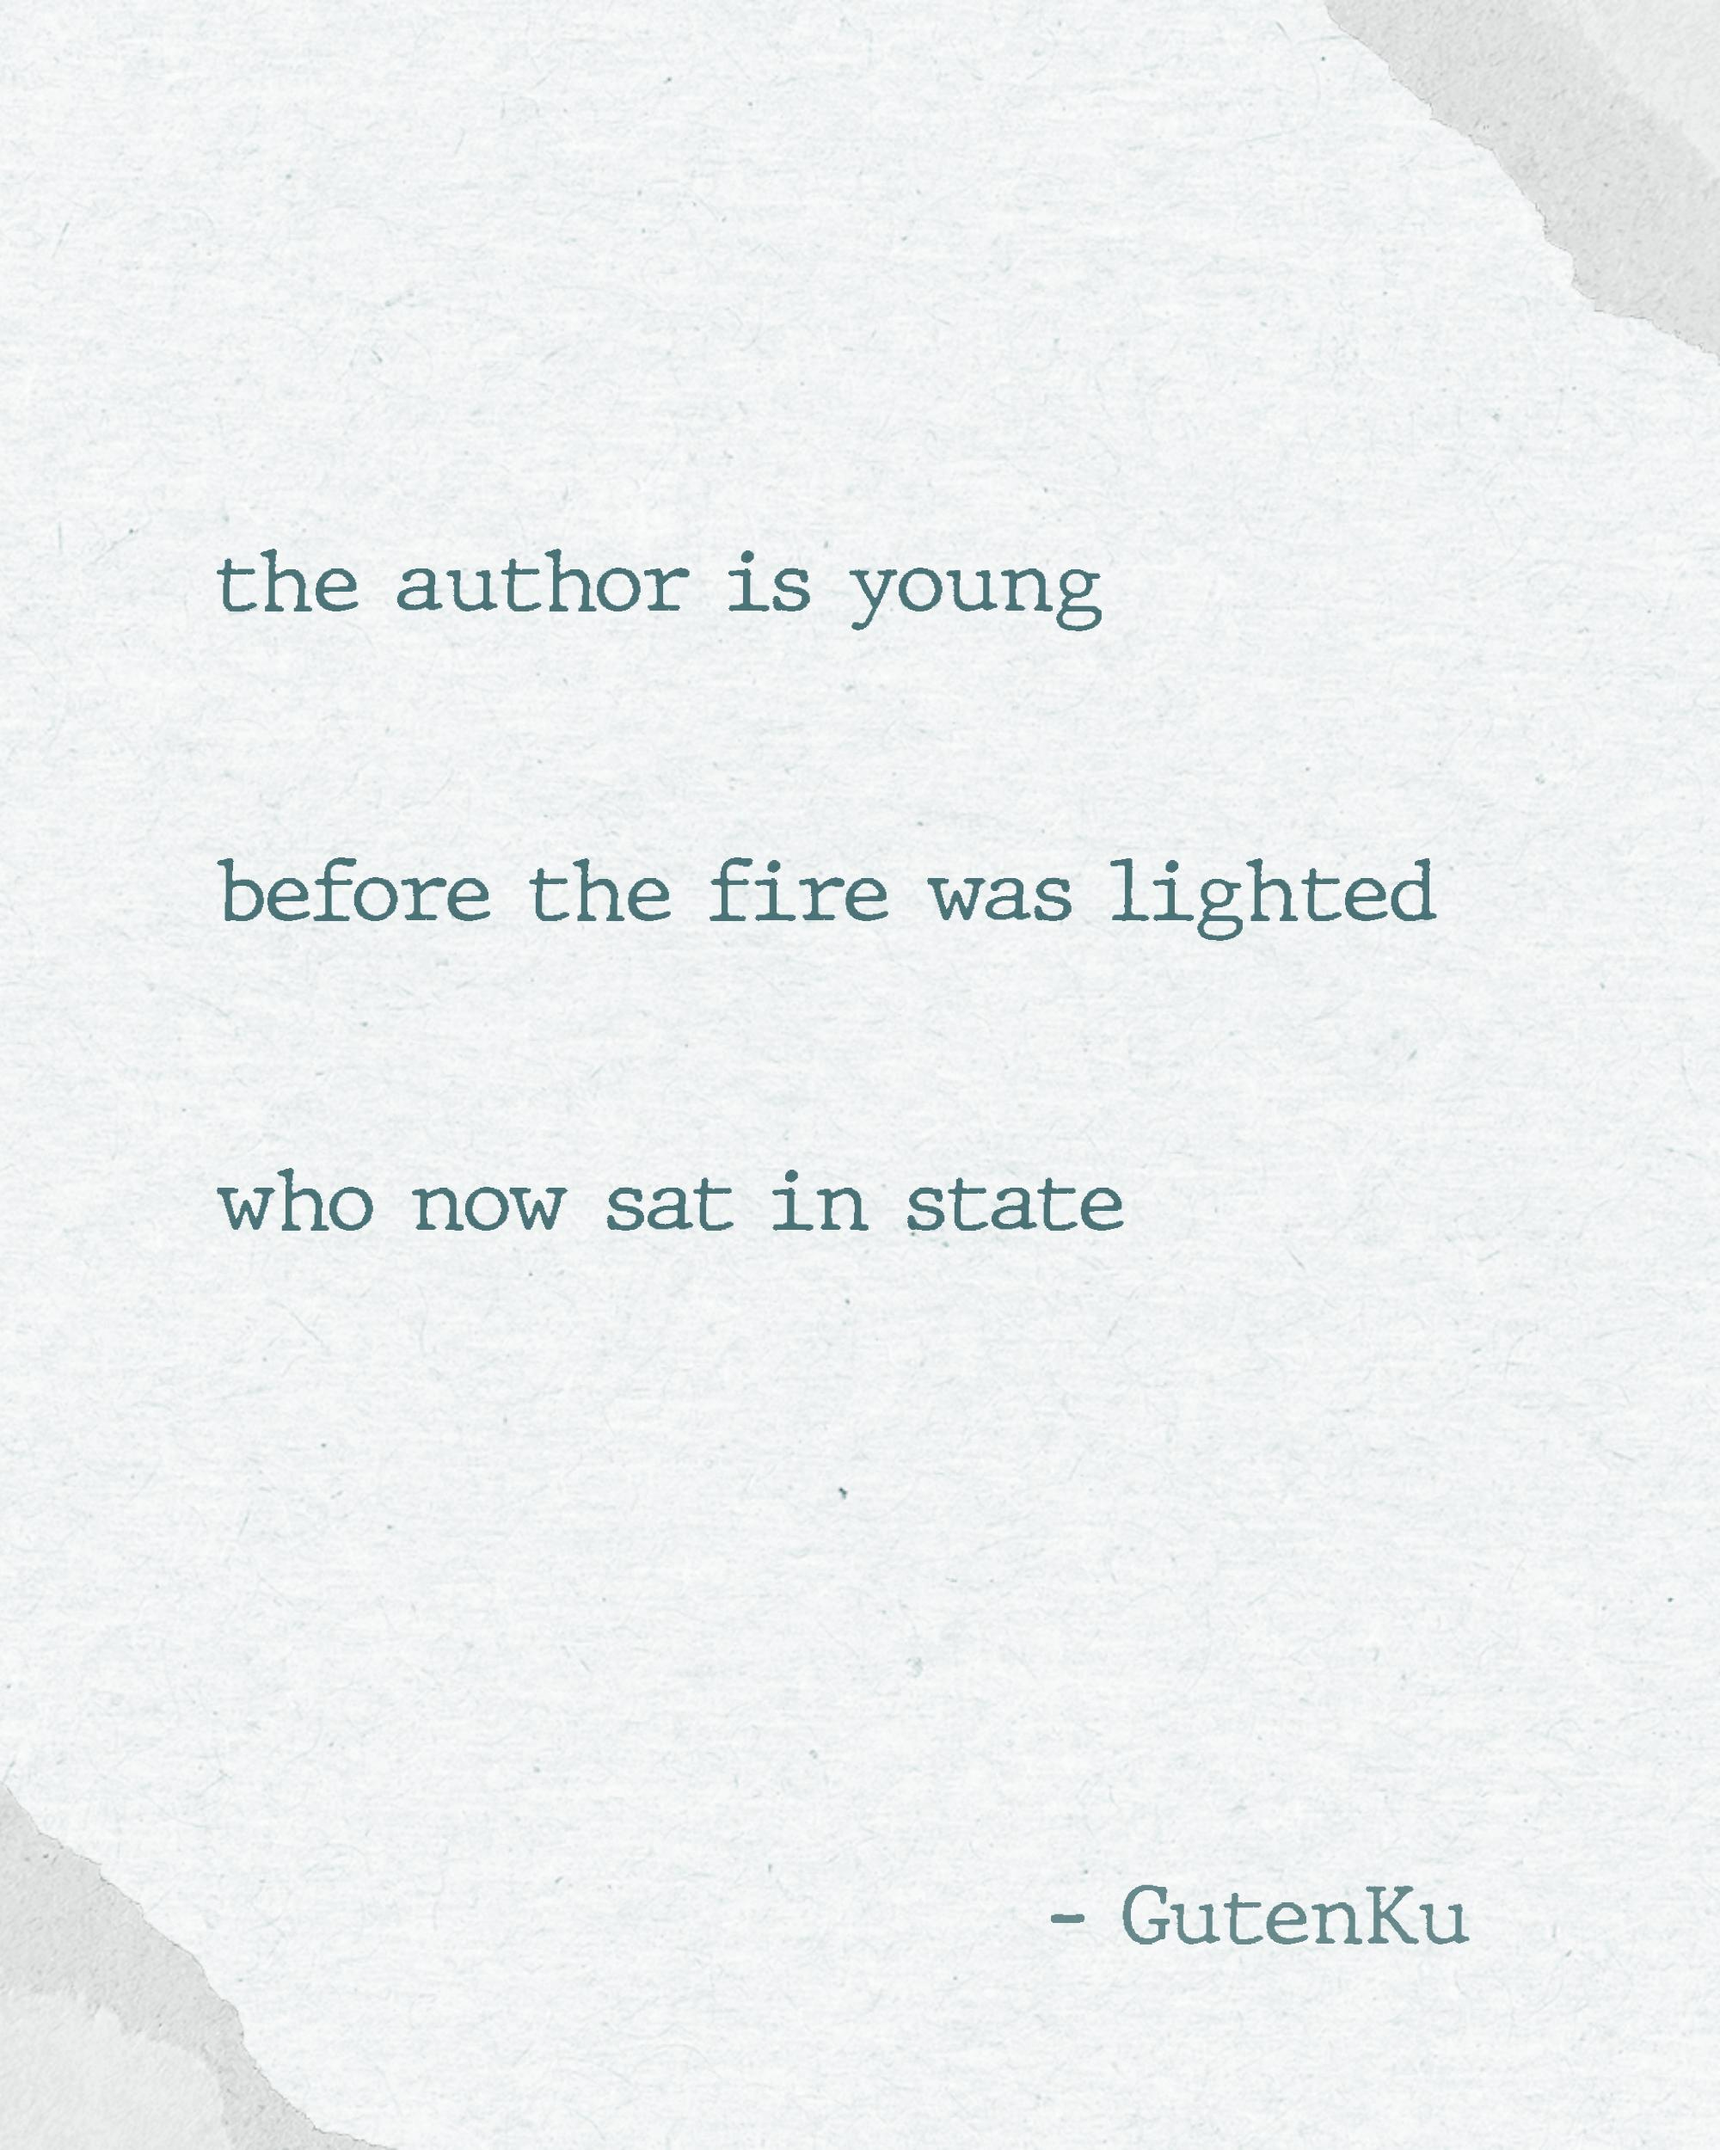
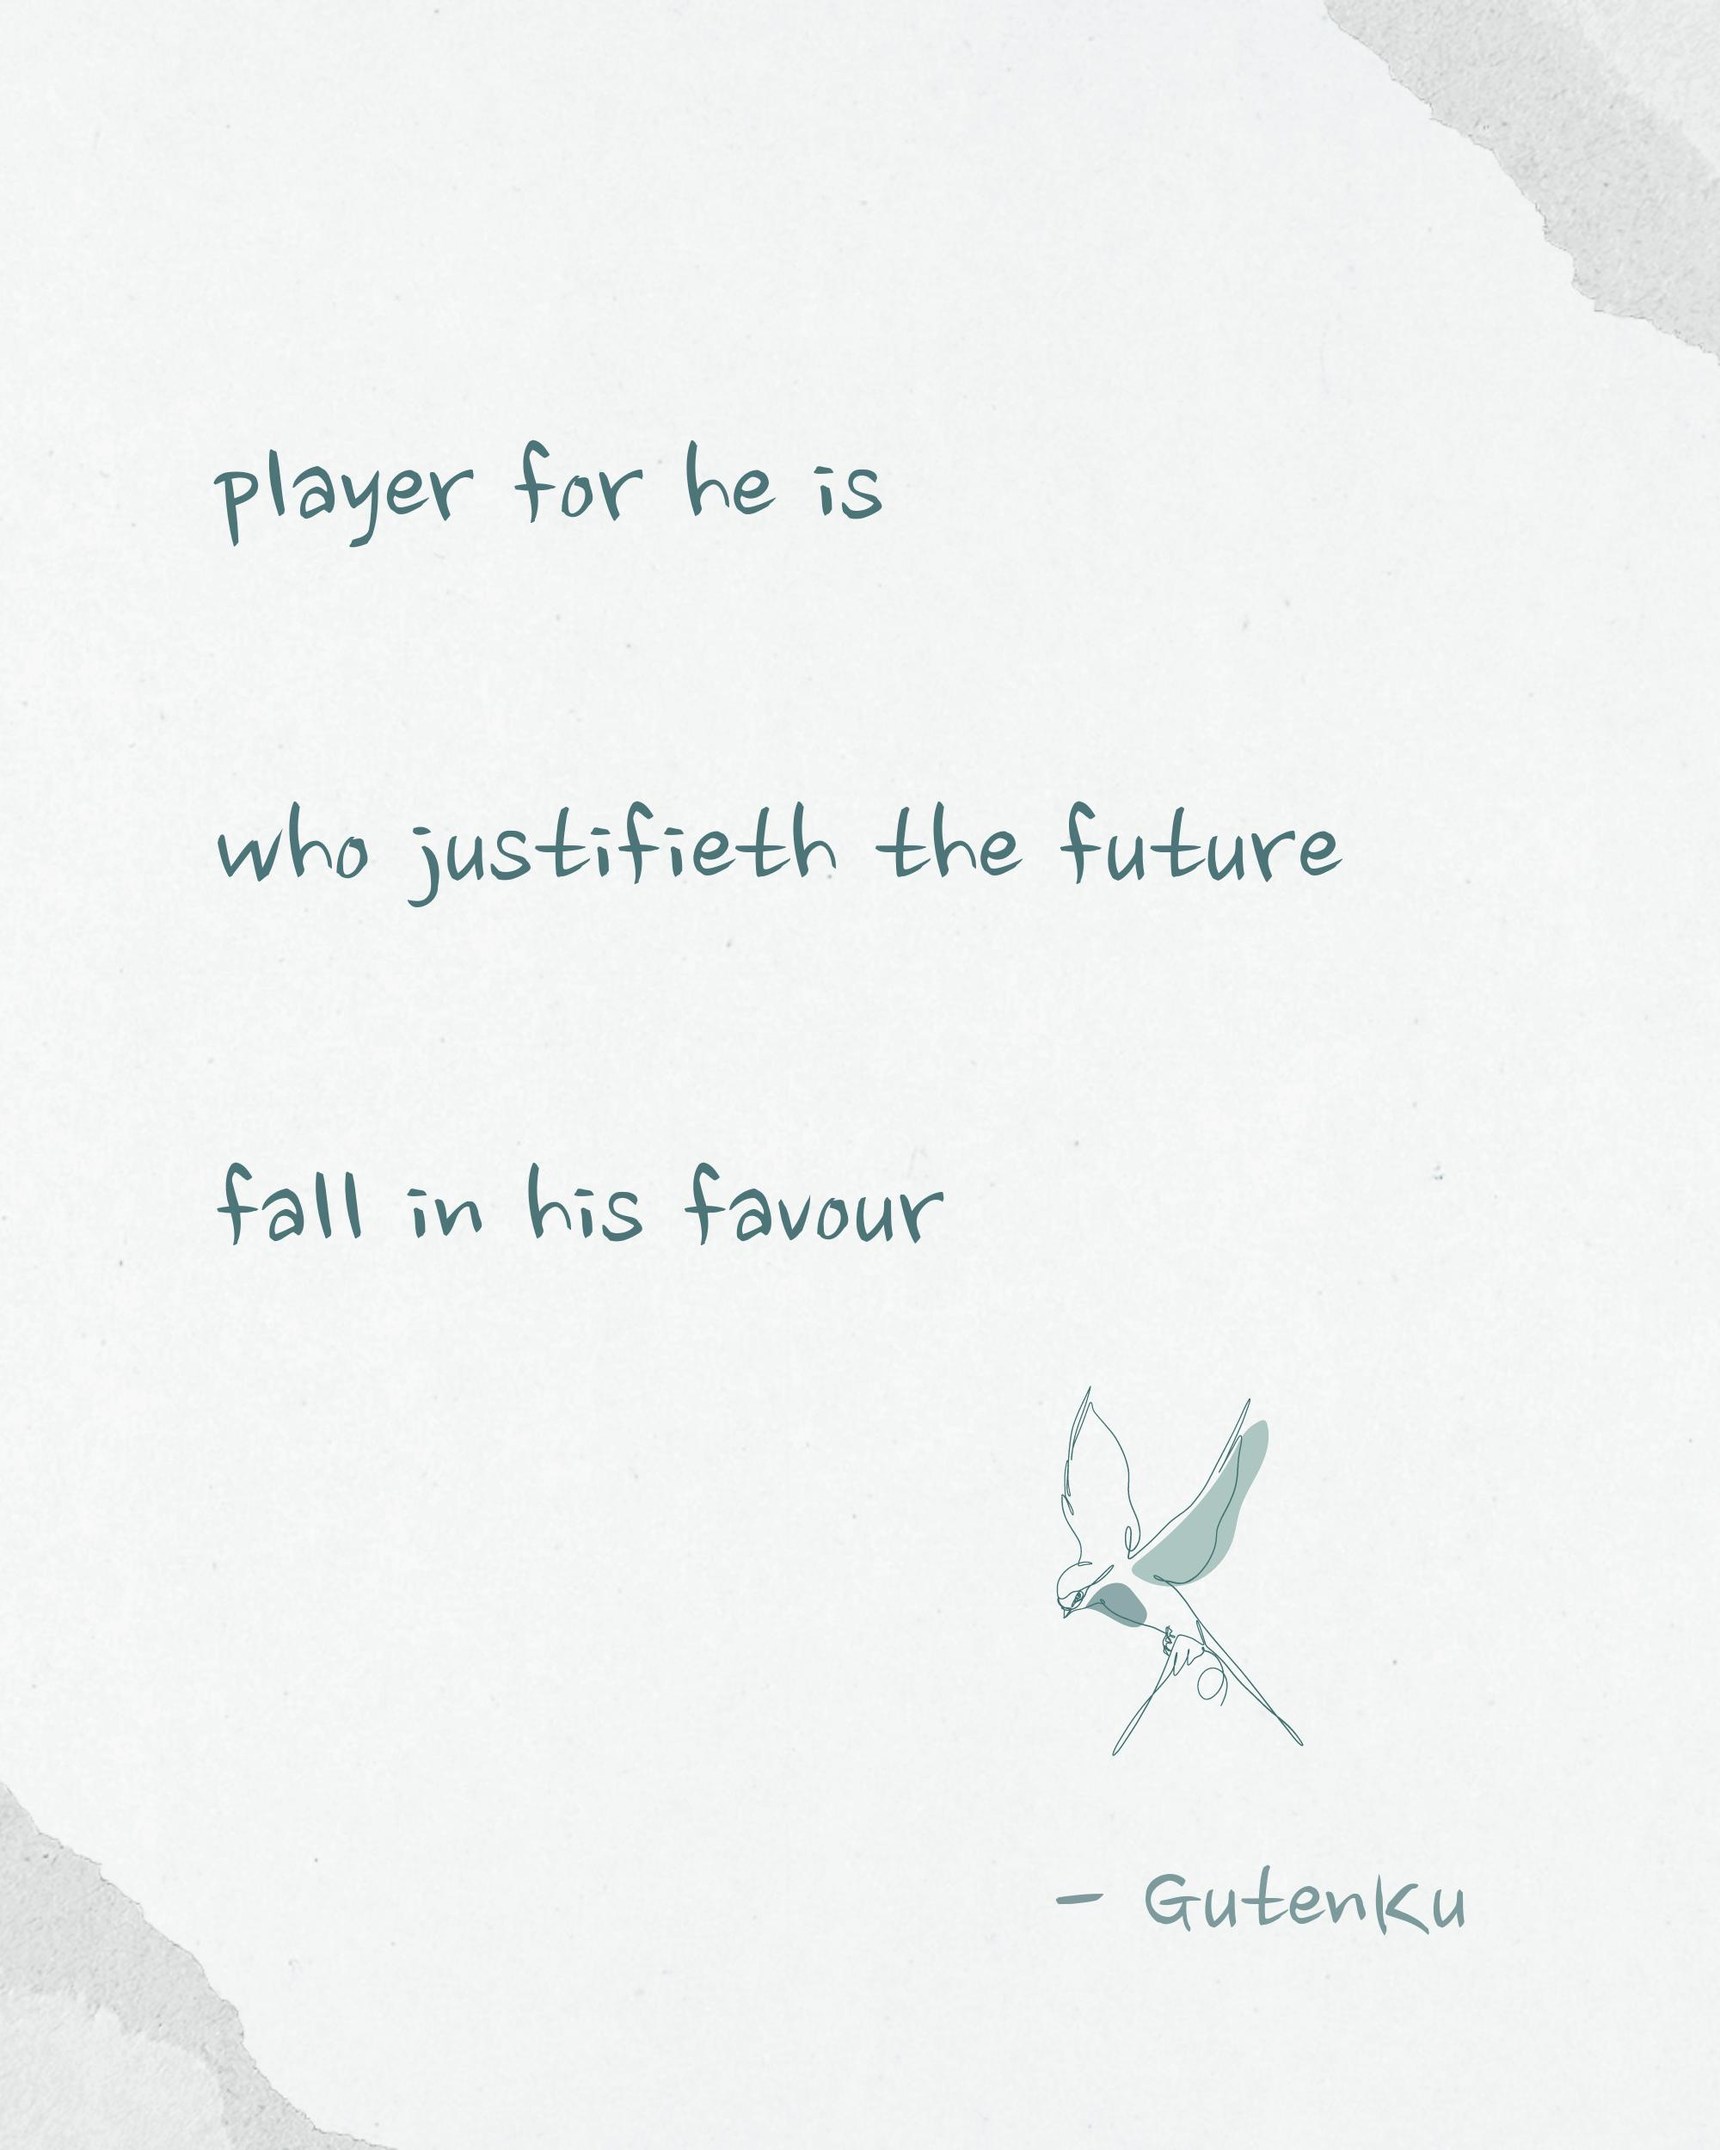
docs(readme): updated daily haiku card

diff --git a/README.md b/README.md
@@ -25,13 +25,13 @@
 <table>
 <tr>
 <td width="300" valign="top">
-<img src="/assets/img/daily_haiku_card.jpg?t=1788343238" width="280" alt="Daily Haiku Card">
+<img src="/assets/img/daily_haiku_card.jpg?t=1788429641" width="280" alt="Daily Haiku Card">
 </td>
 <td valign="top">
 
-> _"This haiku suggests a moment of transformation, where a young author is seen before a fire is lit, symbolizing the beginning of insight, passion, or creative inspiration. The phrase "who now sat in state" gives the figure a sense of dignity and importance, as if youth has been elevated into authority or contemplation. The poem feels quietly ceremonial, contrasting the innocence or freshness of youth with the gravity that comes after awakening or experience. Its sparse language leaves room for reflection, making the scene feel both intimate and symbolic."_
+> _"This haiku suggests a person who sees life like a game of chance and destiny. The phrase "player for he is" presents the subject as someone active, strategic, and perhaps competitive, while "who justifieth the future" implies that he tries to make sense of what is yet to come, as though he can defend or explain destiny itself. The final line, "fall in his favour," gives the poem a sense of irony and confidence: whatever happens, he believes the outcome will somehow benefit him. As a literary image, the haiku reflects ambition, self-belief, and the human desire to control or justify the uncertain future."_
 
-— **BotenKu** 📅 _Sep 02, 2026_
+— **BotenKu** 📅 _Sep 03, 2026_
 
 </td>
 </tr>
